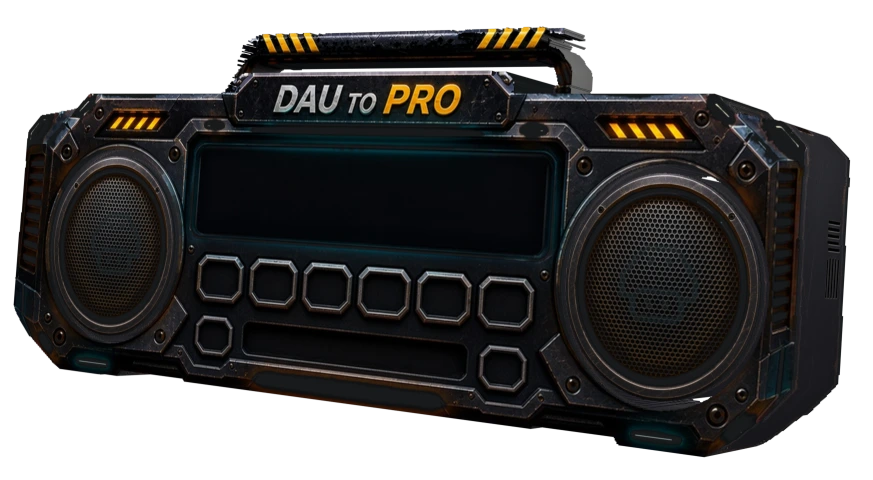
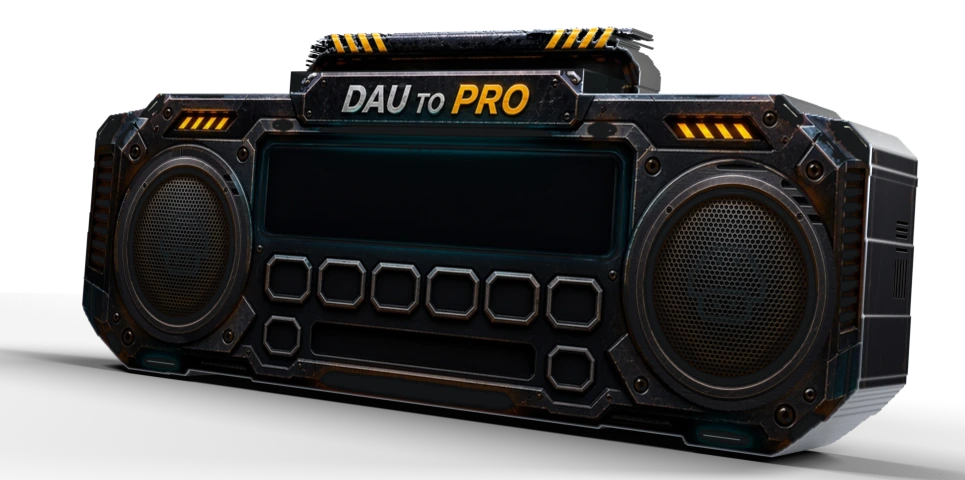
NERD FM: schwingende Membranen, Lichtkanten und Bodenschatten, Lautstärkeknopf repariert
- Membran als gedämpfte Feder; eigene, kaum geglättete Bassanalyse erkennt jeden Anschlag auch bei dauerhaft lautem Bass
- Blender: Lichtkanten (Bevel-Normale) an der Außenkontur, Hell-Dunkel-Verlauf, weicher Bodenschatten; innere Löcher geschlossen
- Lautstärkeknopf und Füllung bewegen sich wieder (Wert am Container statt am unsichtbaren Regler), Test ergänzt
- Titel im Display entfernt (bleibt für Screenreader)

diff --git a/dau-to-pro/nerd-radio.js b/dau-to-pro/nerd-radio.js
@@ -68,7 +68,7 @@
   let frame = 0, lastDraw = 0, bass = 0, treble = 0, faceScale = 1, faceAspect = 0, lastLight = '', waveAmp = 0, waveGain = 1, wavePeak = 0.08, lastClock = '', lastPos = '';
   const voices = new Set();
   const bars = new Float32Array(BARS), peaks = new Float32Array(BARS);
-  let freqData = null, waveData = null;
+  let freqData = null, waveData = null, punch = null, punchData = null, punchAvg = 0, hit = 0, lastHit = 0;
 
   /* ---------- Einstellungen merken (Storage darf verweigert sein) ---------- */
   try {
@@ -154,6 +154,12 @@
     synthIn.connect(tone).connect(bus);
     bus.connect(analyser).connect(out).connect(ctx.destination);
     freqData = new Uint8Array(analyser.frequencyBinCount);
+    // Eigene Bassanalyse für die Membranen: kaum geglättet und mit viel Aussteuerungsreserve,
+    // damit auch bei dauerhaft lautem Bass jeder Anschlag (Kick) erkennbar bleibt.
+    punch = ctx.createAnalyser();
+    punch.fftSize = 1024; punch.smoothingTimeConstant = 0.2; punch.minDecibels = -75; punch.maxDecibels = -5;
+    bus.connect(punch);
+    punchData = new Uint8Array(punch.frequencyBinCount);
     waveData = new Uint8Array(analyser.fftSize);
     noiseBuffer = ctx.createBuffer(1, Math.ceil(ctx.sampleRate * 0.3), ctx.sampleRate);
     const data = noiseBuffer.getChannelData(0);
@@ -352,18 +358,30 @@
   // Farbe wandert fließend (bei Bass schneller), Helligkeit folgt dem Bass.
   const STANDBY = 0.06;
   let lastPump = '', phase = 0, lastHueAt = 0, lastRgb = '';
+  // Membran als gedämpfte Feder (~7 Hz, wenig Dämpfung): jeder Bassanschlag gibt einen Stoß,
+  // danach schwingt sie sichtbar nach – auch kurz nach innen – wie ein echter Tieftöner.
+  let coneX = 0, coneV = 0;
+  const K = (2 * Math.PI * 7) ** 2, C = 2 * 0.22 * 2 * Math.PI * 7;
   function applyBass() {
     const calm = reduced.matches, on = state === 'playing';
     const lo = Math.min(1, bass * 1.5), hi = Math.min(1, treble * 2);
-    // Membranhub: schneller Anstieg mit dem Bass, kein Hub bei reduzierter Bewegung oder im Stopp
-    const push = on && !calm ? Math.pow(Math.min(1, bass * 1.6), 1.4) : 0;
-    const pump = push.toFixed(3);
-    if (pump !== lastPump) {
-      lastPump = pump;
-      ui.cones.forEach(c => { c.style.transform = push ? `scale(${(1 + push * 0.055).toFixed(4)})` : ''; c.style.setProperty('--nr-push', pump); });
-    }
     const now = performance.now(), dt = lastHueAt ? Math.min(0.1, (now - lastHueAt) / 1000) : 0;
     lastHueAt = now;
+    const drive = on && !calm ? Math.min(1, bass * 1.6) : 0;
+    if (drive && hit) coneV += hit * 26;                                       // Anschlag: Stoß nach vorn
+    hit = 0;
+    for (let t = 0; t < dt; t += 0.004) {                                      // stabile kleine Schritte
+      const h = Math.min(0.004, dt - t);
+      coneV += (-K * (coneX - drive * 0.2) - C * coneV) * h;
+      coneX = Math.max(-0.7, Math.min(1.4, coneX + coneV * h));
+    }
+    if (!drive && Math.abs(coneX) < 0.002 && Math.abs(coneV) < 0.01) { coneX = 0; coneV = 0; }
+    const push = Math.max(0, Math.min(1, coneX));
+    const pump = coneX.toFixed(3);
+    if (pump !== lastPump) {
+      lastPump = pump;
+      ui.cones.forEach(c => { c.style.transform = coneX ? `scale(${(1 + coneX * 0.075).toFixed(4)})` : ''; c.style.setProperty('--nr-push', push.toFixed(3)); });
+    }
     if (on && !calm) phase = (phase + dt * (0.12 + 0.9 * lo)) % (Math.PI * 2);
     const hue = 185 + 140 * (0.5 - 0.5 * Math.cos(phase));   // pendelt Türkis (185) ↔ Pink (325)
     const led = !on ? 0 : calm ? 0.75 : 0.22 + 0.78 * lo, mesh = !on ? 0 : calm ? 0.25 : 0.06 + 0.5 * push;
@@ -377,9 +395,11 @@
     const v = !on ? [STANDBY, STANDBY, STANDBY, STANDBY, STANDBY, STANDBY] : calm ? [0.95, 0.7, 0.5, 0.95, 0.7, 0.5]
       : [0.82 + 0.18 * lo, 0.12 + 0.88 * lo, 0.08 + 0.92 * lo, 0.85 + 0.15 * hi, 0.12 + 0.88 * hi, 0.1 + 0.9 * hi];
     const key = v.map(n => n.toFixed(2)).join();
-    if (key === lastLight) return;
-    lastLight = key;
-    ui.lights.forEach((els, i) => els.forEach(el => { el.style.opacity = v[i].toFixed(2); }));
+    if (key !== lastLight) {
+      lastLight = key;
+      ui.lights.forEach((els, i) => els.forEach(el => { el.style.opacity = v[i].toFixed(2); }));
+    }
+    return coneX !== 0;   // Membran schwingt noch: Zeichenschleife weiterlaufen lassen
   }
 
   /* Display und Regler auf die schräge Front legen: Homographie aus den vier von Blender
@@ -509,6 +529,14 @@
       let low = 0;
       for (let k = 1; k <= 6; k++) low += freqData[k];
       bass += ((low / 6 / 255) - bass) * 0.5;
+      // Kick-Erkennung: Bassenergie springt über ihren gleitenden Mittelwert
+      punch.getByteFrequencyData(punchData);
+      let e = 0;
+      for (let k = 1; k <= 4; k++) e += punchData[k];
+      e /= 4 * 255;
+      const rise = e - punchAvg;
+      if (rise > 0.035 && time - lastHit > 110) { hit = Math.min(1, rise * 6); lastHit = time; }
+      punchAvg += (e - punchAvg) * (rise > 0 ? 0.12 : 0.05);
       waveAmp = 1;
       for (let b = 0; b < BARS; b++) {
         const [a, z] = bands[b];
@@ -533,7 +561,7 @@
       bass *= 0.75; if (bass < 0.01) bass = 0; else moving = true;
       treble *= 0.75; if (treble < 0.01) treble = 0; else moving = true;
     }
-    applyBass();
+    if (applyBass()) moving = true;
     paint();
     updateClock();
     const flash = shuffleFlash > time;

diff --git a/dau-to-pro/nerd-radio.css b/dau-to-pro/nerd-radio.css
@@ -89,13 +89,9 @@
   box-shadow:inset 0 0 1.8cqw #22dcf544,inset 0 .3cqw .6cqw #000c}
 .nr-display__glass::after{content:"";position:absolute;inset:0;pointer-events:none;z-index:3;
   background:linear-gradient(162deg,#ffffff17 0 16%,transparent 32%),repeating-linear-gradient(0deg,#ffffff07 0 .035cqw,transparent .035cqw .1cqw)}
-.nr-display__brand{grid-column:1;grid-row:1;display:flex;align-items:center;gap:4%;min-width:0}
-.nr-display__brand h2{flex:1;min-width:0;margin:0;line-height:0}
-.nr-display__brand h2 svg{display:block;width:100%;height:auto;overflow:visible}
-.nr-display__brand text{font:900 30px ui-monospace,"Cascadia Mono",SFMono-Regular,Consolas,monospace;fill:#5ff3ff;filter:drop-shadow(0 0 2px #22dcf5) drop-shadow(0 0 6px #22dcf588)}
 .nr-display__viz{grid-column:2;grid-row:1/span 2;position:relative;min-height:0;margin:.5cqw 0 .6cqw}
 .nr-display__viz canvas{position:absolute;inset:0;width:100%;height:100%;display:block}
-.nr-display__track{grid-column:1;grid-row:2;display:flex;align-items:center;gap:3%;min-width:0;margin:0;font-weight:700;font-size:2.45cqw;line-height:1.2;color:#c4f9ff;text-shadow:0 0 .6cqw #22dcf588}
+.nr-display__track{grid-column:1;grid-row:1/span 2;display:flex;align-items:center;gap:3%;min-width:0;margin:0;font-weight:700;font-size:2.45cqw;line-height:1.2;color:#c4f9ff;text-shadow:0 0 .6cqw #22dcf588}
 .nr-display__titlebox{flex:1;min-width:0;overflow:hidden}
 .nr-marquee{display:block;overflow:hidden;text-overflow:ellipsis;white-space:nowrap}
 .nr-device[data-state=playing] .is-long .nr-marquee{overflow:visible;text-overflow:clip;width:max-content;animation:nr-marquee var(--nr-dur,8s) ease-in-out infinite alternate}

diff --git a/dau-to-pro/nerd-radio/layout.css b/dau-to-pro/nerd-radio/layout.css
@@ -1,5 +1,5 @@
 /* Generiert von tools/nerd-radio/build_boombox.py – nicht von Hand ändern. Positionen in Paket-Koordinaten. */
-.nr-device{aspect-ratio:1746/961;--nr-face:"0.03587 0.06078 0.94177 0.00636 0.90986 0.99364 0.00687 0.76208"}
+.nr-device{aspect-ratio:1931/961;--nr-face:"0.10355 0.06074 0.92273 0.00636 0.89388 0.99308 0.07733 0.76165"}
 .nr-face{width:2910px;height:1242px}
 .nr-display{left:28.763%;top:33.333%;width:45.361%;height:24.155%}
 .nr-volume{left:37.010%;top:79.469%;width:28.969%;height:9.420%}

diff --git a/tools/nerd-radio/build_boombox.py b/tools/nerd-radio/build_boombox.py
@@ -52,13 +52,49 @@ def nodes(mat):
     for n in list(nt.nodes): nt.nodes.remove(n)
     return nt
 
+def shade_factor(nt, lo=0.66, hi=1.08):
+    """Helligkeitsverlauf für die ungeschatteten Texturen: oben heller, unten dunkler (Licht von oben),
+    zur vorderen rechten Ecke hin minimal heller. Gibt einen Float-Ausgang zurück."""
+    tc = nt.nodes.new('ShaderNodeTexCoord'); sep = nt.nodes.new('ShaderNodeSeparateXYZ')
+    nt.links.new(tc.outputs['Object'], sep.inputs[0])
+    mz = nt.nodes.new('ShaderNodeMapRange'); mz.inputs['From Min'].default_value = Z(CH); mz.inputs['From Max'].default_value = Z(0)
+    mz.inputs['To Min'].default_value = lo; mz.inputs['To Max'].default_value = hi
+    nt.links.new(sep.outputs['Z'], mz.inputs['Value'])
+    mx = nt.nodes.new('ShaderNodeMapRange'); mx.inputs['From Min'].default_value = X(0); mx.inputs['From Max'].default_value = X(CW)
+    mx.inputs['To Min'].default_value = 0.94; mx.inputs['To Max'].default_value = 1.03
+    nt.links.new(sep.outputs['X'], mx.inputs['Value'])
+    mul = nt.nodes.new('ShaderNodeMath'); mul.operation = 'MULTIPLY'
+    nt.links.new(mz.outputs['Result'], mul.inputs[0]); nt.links.new(mx.outputs['Result'], mul.inputs[1])
+    return mul.outputs[0]
+
+def edge_light(nt, base):
+    """Lichtkante: weich gerundete Kantennormale (Bevel-Node, keine Geometrie) fängt das Studiolicht als Glanz.
+    Nur an Kanten aktiv (Abweichung zur echten Flächennormale), die Flächen bleiben wie gemalt."""
+    bev = nt.nodes.new('ShaderNodeBevel'); bev.inputs['Radius'].default_value = 0.045; bev.samples = 8
+    geo = nt.nodes.new('ShaderNodeNewGeometry')
+    dot = nt.nodes.new('ShaderNodeVectorMath'); dot.operation = 'DOT_PRODUCT'
+    nt.links.new(bev.outputs['Normal'], dot.inputs[0]); nt.links.new(geo.outputs['Normal'], dot.inputs[1])
+    edge = nt.nodes.new('ShaderNodeMapRange'); edge.inputs['From Min'].default_value = 0.99; edge.inputs['From Max'].default_value = 0.75
+    nt.links.new(dot.outputs['Value'], edge.inputs['Value'])
+    gl = nt.nodes.new('ShaderNodeBsdfGlossy'); gl.inputs['Roughness'].default_value = 0.3
+    gl.inputs['Color'].default_value = (0.42, 0.45, 0.5, 1)   # dezenter Metallglanz, kein weißer Rand
+    nt.links.new(bev.outputs['Normal'], gl.inputs['Normal'])
+    add = nt.nodes.new('ShaderNodeAddShader'); nt.links.new(base, add.inputs[0]); nt.links.new(gl.outputs[0], add.inputs[1])
+    mix = nt.nodes.new('ShaderNodeMixShader'); nt.links.new(edge.outputs['Result'], mix.inputs[0])
+    nt.links.new(base, mix.inputs[1]); nt.links.new(add.outputs[0], mix.inputs[2])
+    return mix.outputs[0]
+
 img = bpy.data.images.load(os.path.join(WORK, 'front.png'))
 img.colorspace_settings.name = 'sRGB'; img.alpha_mode = 'STRAIGHT'
 front_mat = bpy.data.materials.new('front'); nt = nodes(front_mat)
 tex = nt.nodes.new('ShaderNodeTexImage'); tex.image = img; tex.interpolation = 'Cubic'
 em = nt.nodes.new('ShaderNodeEmission'); nt.links.new(tex.outputs['Color'], em.inputs['Color'])
+nt.links.new(shade_factor(nt), em.inputs['Strength'])
 tr = nt.nodes.new('ShaderNodeBsdfTransparent'); mix = nt.nodes.new('ShaderNodeMixShader')
-nt.links.new(tex.outputs['Alpha'], mix.inputs[0]); nt.links.new(tr.outputs[0], mix.inputs[1]); nt.links.new(em.outputs[0], mix.inputs[2])
+# Deckkraft steil: innen voll deckend (sonst scheinen Innenflächen durch halbtransparente Pixel), Silhouette bleibt scharf
+op = nt.nodes.new('ShaderNodeMapRange'); op.inputs['From Min'].default_value = 0.1; op.inputs['From Max'].default_value = 0.5
+nt.links.new(tex.outputs['Alpha'], op.inputs['Value'])
+nt.links.new(op.outputs['Result'], mix.inputs[0]); nt.links.new(tr.outputs[0], mix.inputs[1]); nt.links.new(edge_light(nt, em.outputs[0]), mix.inputs[2])
 out = nt.nodes.new('ShaderNodeOutputMaterial'); nt.links.new(mix.outputs[0], out.inputs[0])
 
 side_mat = bpy.data.materials.new('side'); nt = nodes(side_mat)
@@ -80,8 +116,10 @@ for name in (SURF_NAMES if SURF else []):
     m = bpy.data.materials.new(name); nt = nodes(m)
     t = nt.nodes.new('ShaderNodeTexImage'); t.image = bpy.data.images.load(os.path.join(WORK, 'surfaces', f'{name}.png'))
     t.image.colorspace_settings.name = 'sRGB'; t.interpolation = 'Cubic'; t.extension = 'EXTEND'
-    e = nt.nodes.new('ShaderNodeEmission'); nt.links.new(t.outputs['Color'], e.inputs['Color']); e.inputs['Strength'].default_value = SURF_LEVEL[name]
-    o = nt.nodes.new('ShaderNodeOutputMaterial'); nt.links.new(e.outputs[0], o.inputs[0])
+    e = nt.nodes.new('ShaderNodeEmission'); nt.links.new(t.outputs['Color'], e.inputs['Color'])
+    lv = nt.nodes.new('ShaderNodeMath'); lv.operation = 'MULTIPLY'; lv.inputs[1].default_value = SURF_LEVEL[name]
+    nt.links.new(shade_factor(nt), lv.inputs[0]); nt.links.new(lv.outputs[0], e.inputs['Strength'])
+    o = nt.nodes.new('ShaderNodeOutputMaterial'); nt.links.new(edge_light(nt, e.outputs[0]), o.inputs[0])
     surf_mats.append(m)
 
 def surface_uv(n, co):
@@ -102,6 +140,17 @@ CELL = 6 if PREVIEW else 3
 gh, gw = CH // CELL, CW // CELL
 cov = px[:gh * CELL, :gw * CELL, 3].reshape(gh, CELL, gw, CELL).mean(axis=(1, 3))
 solid = cov > 0.5
+# Innere Löcher (Tasten-, Rand- und Lückenbereiche) schließen: nur die Außenkontur bekommt Wände und Lichtkanten.
+# Hintergrund = von außen erreichbare leere Zellen (Flutfüllung per wiederholter Ausdehnung, ohne SciPy).
+outside = np.zeros_like(solid); outside[0, :] = outside[-1, :] = True; outside[:, 0] = outside[:, -1] = True
+outside &= ~solid
+while True:
+    grown = outside.copy()
+    grown[1:, :] |= outside[:-1, :]; grown[:-1, :] |= outside[1:, :]; grown[:, 1:] |= outside[:, :-1]; grown[:, :-1] |= outside[:, 1:]
+    grown &= ~solid
+    if (grown == outside).all(): break
+    outside = grown
+solid = ~outside
 ys = (np.arange(gh) + 0.5) * CELL; xs = (np.arange(gw) + 0.5) * CELL
 upper = np.broadcast_to(ys[:, None] < BODY_TOP, solid.shape)
 plate = upper & (ys[:, None] >= PLATE[1]) & (xs[None, :] >= PLATE[0]) & (xs[None, :] <= PLATE[2])
@@ -143,6 +192,10 @@ def slab(name, cells, front, depth, surfaces=False):
 slab('body', parts['body'], 0.0, DEPTH, surfaces=True)
 slab('handle', parts['handle'], HANDLE_FRONT, HANDLE_DEPTH)
 
+# ---------------------------------------------------------------- Bodenschatten (Shadow Catcher: nur der Schatten wird sichtbar)
+bpy.ops.mesh.primitive_plane_add(size=40, location=(0, DEPTH / 2, Z(CH) - 0.002))
+floor = bpy.context.active_object; floor.name = 'floor'; floor.is_shadow_catcher = True
+
 # ---------------------------------------------------------------- Licht, Kamera, Welt
 world = bpy.data.worlds.new('w'); scene.world = world; wn = nodes(world)
 bg = wn.nodes.new('ShaderNodeBackground'); bg.inputs['Color'].default_value = (0.02, 0.025, 0.03, 1); bg.inputs['Strength'].default_value = 1.0
@@ -176,7 +229,7 @@ try:
     scene.cycles.device = 'GPU'
 except Exception:
     scene.cycles.device = 'CPU'
-scene.cycles.samples = 64 if PREVIEW else 1024
+scene.cycles.samples = 256 if PREVIEW else 1024
 # Kein Denoiser: er würde die feinen Strukturen der Front-Textur weichzeichnen (die Front ist rauschfrei)
 scene.cycles.use_denoising = False
 scene.cycles.transparent_max_bounces = 16
@@ -190,6 +243,8 @@ def proj(x, y, d):
     co = world_to_camera_view(scene, cam, Vector((X(x), d, Z(y))))
     return co.x, 1 - co.y
 pts = [proj(x, y, d) for x in (0, CW) for y in (0, CH) for d in (0, DEPTH)]
+SH = 0.7 / U   # Bodenschatten reicht etwas über das Gerät hinaus
+pts += [proj(x, CH, d) for x in (-SH, CW + SH) for d in (-0.5, DEPTH + 1.0)]
 pad = 12 / W
 CROP = [max(0, min(p[0] for p in pts) - pad), max(0, min(p[1] for p in pts) - pad), min(1, max(p[0] for p in pts) + pad), min(1, max(p[1] for p in pts) + pad)]
 r = scene.render

diff --git a/dau-to-pro/index.php b/dau-to-pro/index.php
@@ -126,7 +126,7 @@ $topicLabels=['subnet'=>'IP & Subnetting','netzwerk'=>'Netzwerke','sicherheit'=>
 <?php endforeach; ?>
           <div class="nr-display">
             <div class="nr-display__glass">
-              <div class="nr-display__brand"><h2 id="nr-title"><span class="nr-sr">NERD FM</span><svg viewBox="0 0 170 30" aria-hidden="true" focusable="false"><text x="1" y="25" textLength="117" lengthAdjust="spacingAndGlyphs">NERD FM</text></svg></h2></div>
+              <h2 id="nr-title" class="nr-sr">NERD FM</h2>
               <div class="nr-display__viz"><canvas data-radio-viz width="300" height="120" role="img" aria-label="Echtzeit-Anzeige des Audiosignals"></canvas></div>
               <p class="nr-display__track"><span class="nr-display__icon" aria-hidden="true"></span><span class="nr-display__titlebox"><span class="nr-marquee" data-radio-title>01 – Stack Overflow FM</span></span></p>
               <div class="nr-display__meta">
